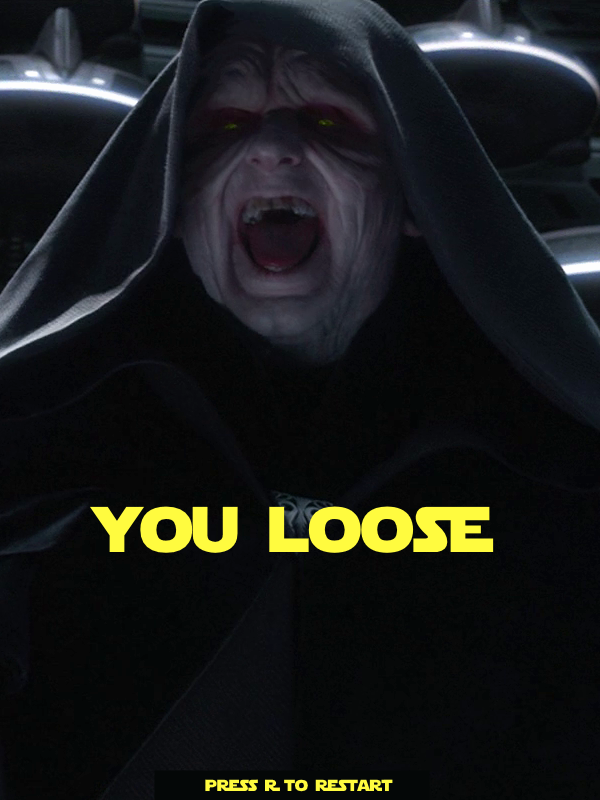
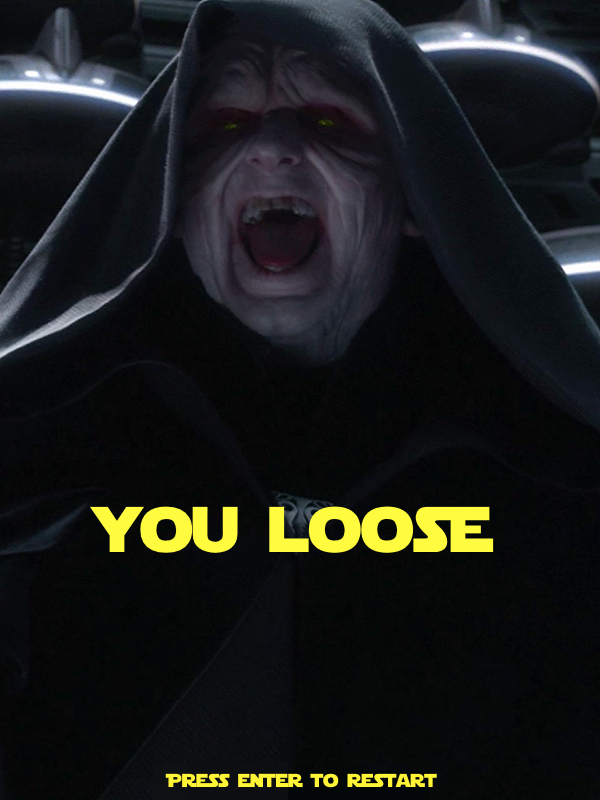
fix restart problem

Changed region(s): [[0.27, 0.9688, 0.72, 1.0]]

diff --git a/game.js b/game.js
@@ -586,10 +586,12 @@ var keyPressed = document.addEventListener('keypress', (event) => {
 		}
 		console.log("reprise")
 	}
-	else if(event.which==114 && oneGame==false){
-		init();
-		startGame();
-	}
+	else if(event.which == 13 && oneGame==false){
+			oneGame=true;
+			init();
+			startGame();
+		}
+
 
 })
 
@@ -759,6 +761,7 @@ function menu(){
  		console.log(event.which);
 		if(event.which == 13 && oneGame==false){
 			oneGame=true;
+			init();
 			startGame();
 		}
 	})
